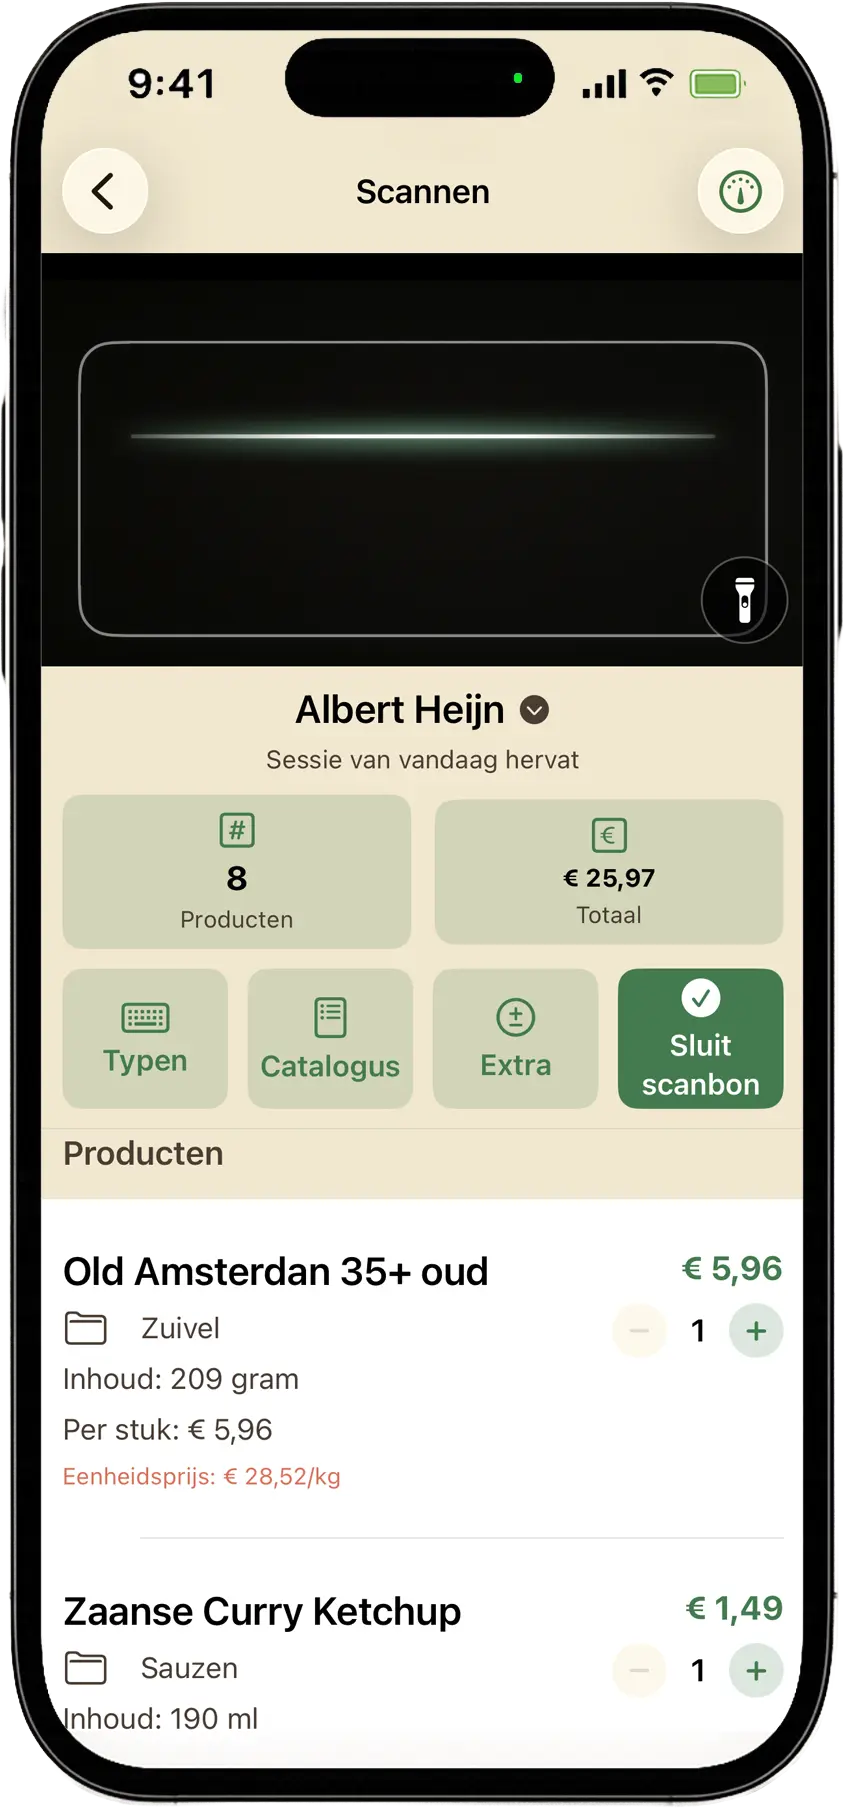
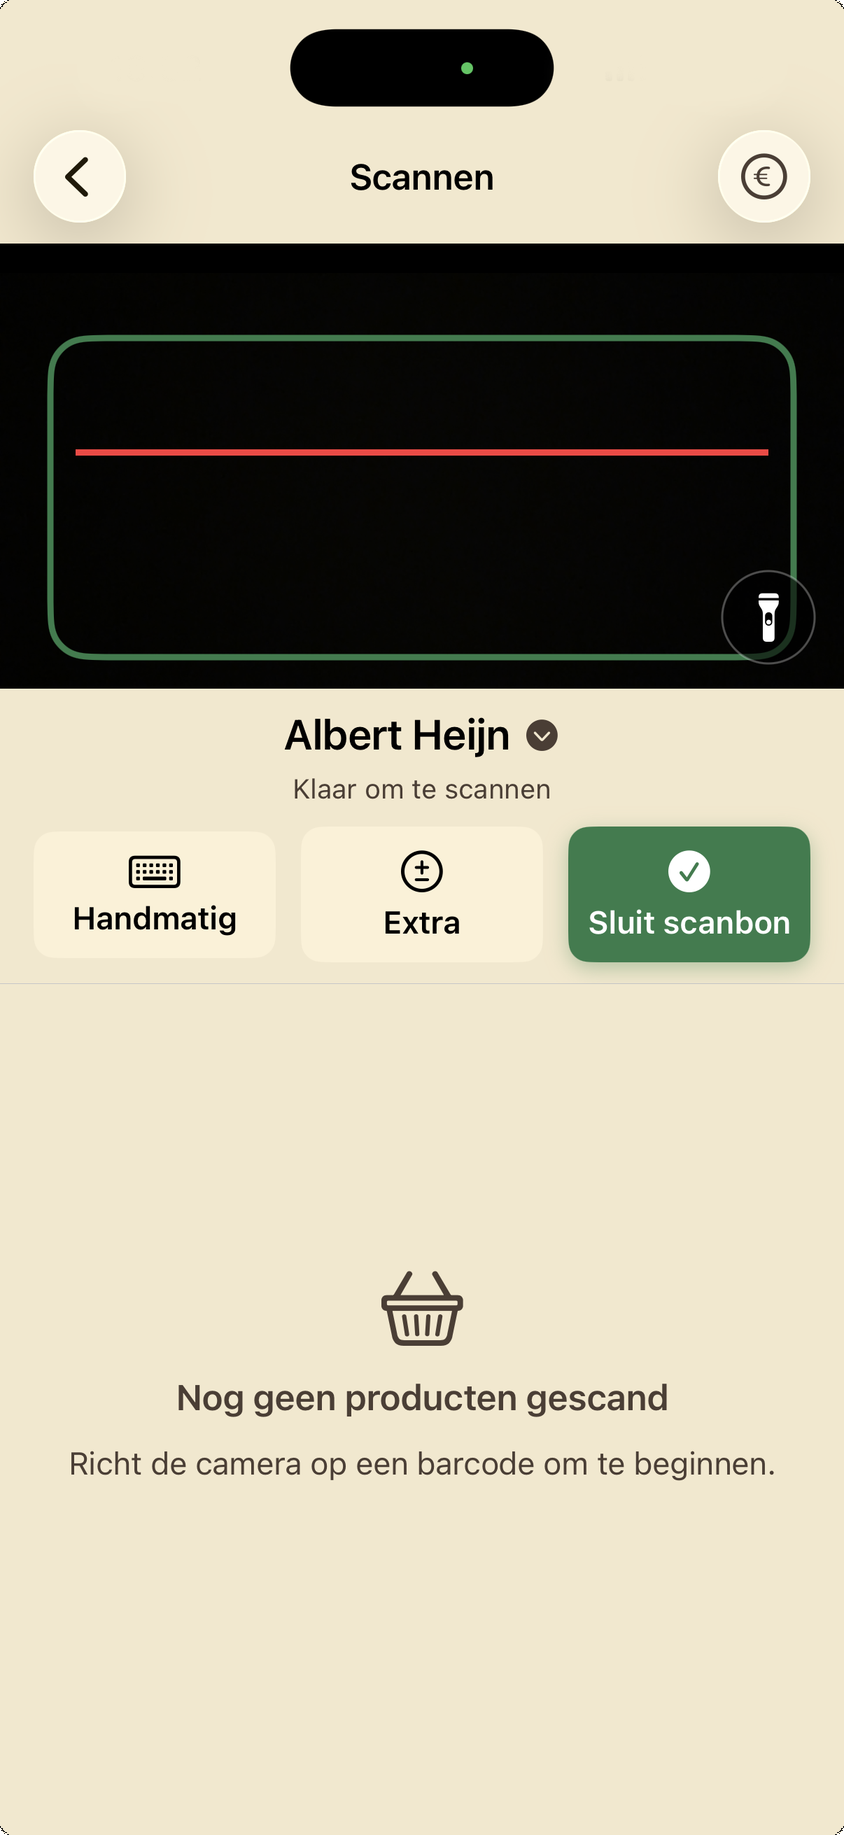
Add files via upload

diff --git a/css/style.css b/css/style.css
@@ -50,13 +50,18 @@ img {
   line-height: 0;
   width: 220px;
   max-width: 100%;
-  filter: drop-shadow(0 16px 36px rgba(22, 49, 38, 0.22));
+  filter: drop-shadow(0 14px 28px rgba(22, 49, 38, 0.16));
+  isolation: isolate;
 }
 
 .device-shot .app-screenshot {
   border-radius: 0;
   width: 100%;
   height: auto;
+  display: block;
+  /* Voorkom grijs halo-fringe bij schalen in Safari/Chrome */
+  -webkit-backface-visibility: hidden;
+  backface-visibility: hidden;
 }
 
 /* Rechte screenshots zonder telefoonvorm — optionele donkere rand */

diff --git a/home.html b/home.html
@@ -121,7 +121,7 @@
               alt="Startscherm BoodschappenScan"
               class="app-screenshot"
               width="844"
-              height="1810"
+              height="1835"
               loading="eager"
             >
           </div>
@@ -169,7 +169,7 @@
                 alt="Barcodescanner in BoodschappenScan"
                 class="app-screenshot"
                 width="844"
-                height="1808"
+                height="1835"
                 loading="lazy"
               >
             </div>
@@ -192,7 +192,7 @@
           <div class="card">
             <div class="screenshot-wrap">
               <div class="device-shot">
-                <img src="assets/screenshots/boodschappenlijst.webp" alt="Boodschappenlijst" class="app-screenshot" width="844" height="1811" loading="lazy">
+                <img src="assets/screenshots/boodschappenlijst.webp" alt="Boodschappenlijst" class="app-screenshot" width="844" height="1835" loading="lazy">
               </div>
             </div>
             <h4>Boodschappenlijsten</h4>